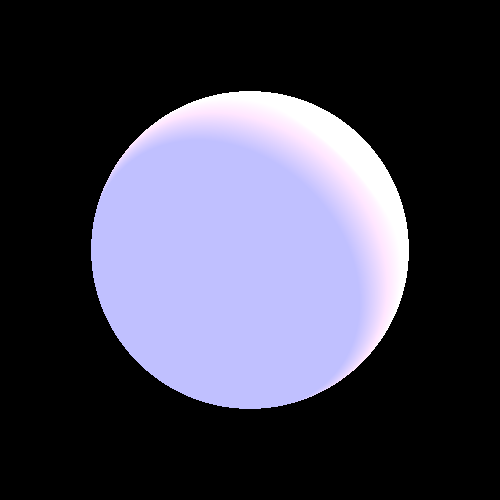
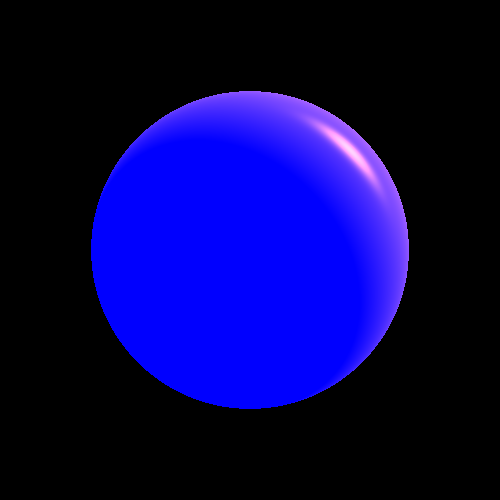
SPHERE REUSSIE

diff --git a/src/scene/Scene.java b/src/scene/Scene.java
@@ -14,9 +14,9 @@ public class Scene {
         private final String _name;
 
         public Color background = Color.BLACK;
-        public AmbientLight ambientlight= new AmbientLight(new Color(192, 192, 192),1.d); ;
-        public Geometries geometries = null;
-
+        public AmbientLight ambientlight= new AmbientLight(); ;
+        public Geometries geometries = new Geometries();
+//new Color(192, 192, 192),1.d
 
 
     public List<LightSource> lights = new LinkedList<LightSource>();

diff --git a/src/unittests/GeometriesTest.java b/src/unittests/GeometriesTest.java
@@ -1,5 +1,6 @@
 package unittests;
 
+
 import org.junit.Test;
 import geometries.*;
 import primitives.*;
